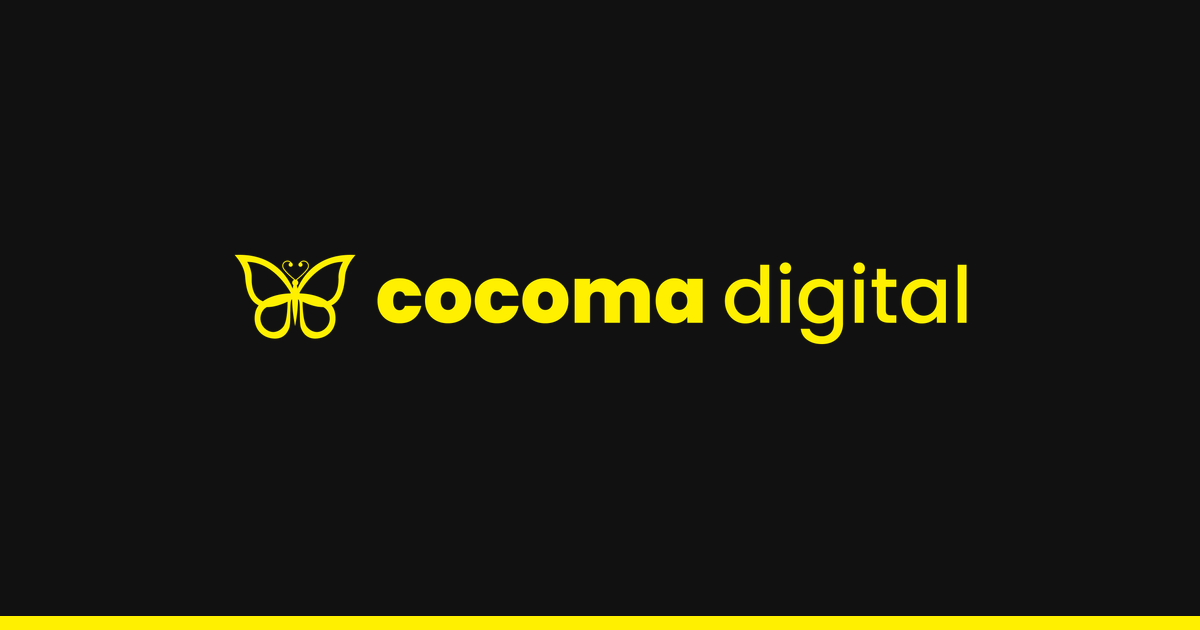
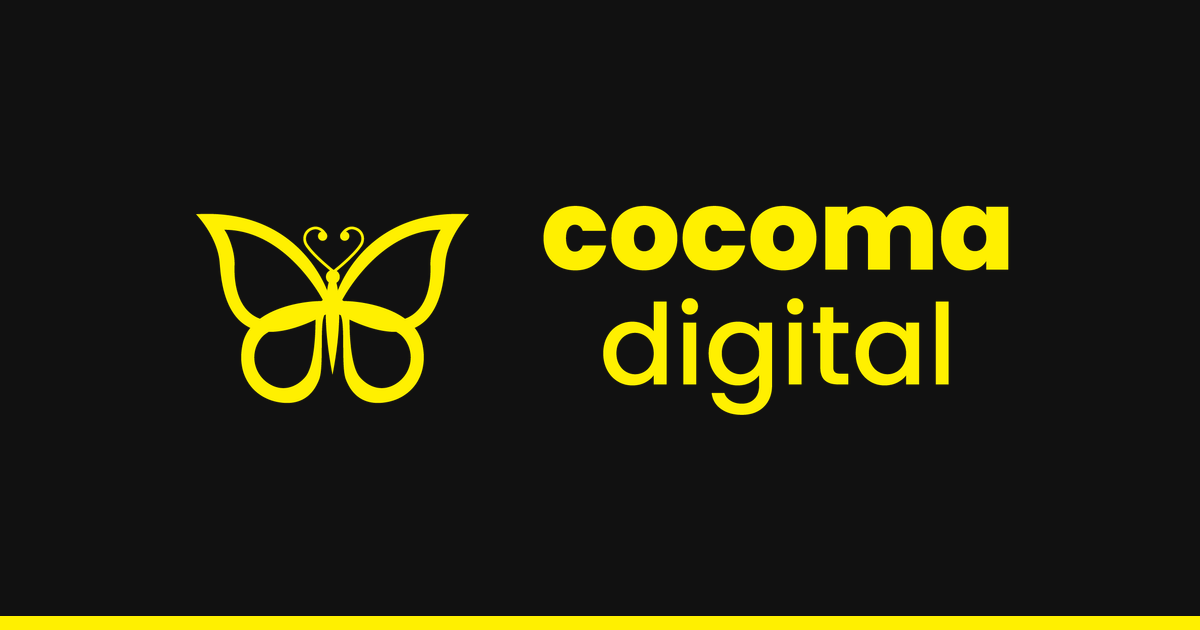
update og image

Changed region(s): [[0.1542, 0.3016, 0.8633, 0.6635]]

diff --git a/app/web/scripts/generate-og-cover.ts b/app/web/scripts/generate-og-cover.ts
@@ -15,9 +15,9 @@ import sharp from "sharp";
  * no retry — a static file under /public is served by the CDN in one hop,
  * where a rendered route risks a cold start and a silently dropped preview.
  *
- * Run with `npm run og:cover -w @cocoma/web` after changing the logo or the
- * brand colours. The output is deterministic, so re-running with no source
- * change produces a byte-identical file.
+ * Run with `npm run og:cover` after changing the logo or the brand colours.
+ * The output is deterministic, so re-running with no source change produces a
+ * byte-identical file.
  */
 
 /* 1200x630 is the 1.91:1 box Facebook, LinkedIn and X all crop to, and the
@@ -31,9 +31,20 @@ const HEIGHT = 630;
 const INK = "#111111";
 const BRAND = "#fff000";
 
-/** Full "butterfly + cocoma digital" lockup — the mark people recognise. */
-const LOGO = "Images/logo/logo-01.png";
-const LOGO_WIDTH = 760;
+/* The lockup is composed from its two parts rather than using the single-line
+   logo-01.png, because the brand's stacked arrangement — butterfly on the
+   left, "cocoma" over "digital" on the right — reads far better in a 1.91:1
+   share card. The one-line version has to shrink to fit the width, which
+   leaves the mark small and the card mostly empty. */
+const MARK = "Images/logo/main-logo.png";
+const WORDMARK = "Images/logo/name-logo.png";
+
+/* Sized by height so both parts share a centre line whatever their source
+   dimensions. The mark is set slightly shorter than the wordmark: matching
+   them exactly makes the butterfly look oversized next to two text lines. */
+const WORDMARK_HEIGHT = 232;
+const MARK_HEIGHT = 214;
+const GAP = 58;
 
 const OUTPUT = "Images/og-cover.png";
 
@@ -41,11 +52,23 @@ async function main() {
   const publicDir = path.join(process.cwd(), "public");
   const outputPath = path.join(publicDir, OUTPUT);
 
-  const logo = await sharp(path.join(publicDir, LOGO))
-    .resize({ width: LOGO_WIDTH, fit: "inside", withoutEnlargement: true })
-    .png()
-    .toBuffer();
-  const { height: logoHeight = 0 } = await sharp(logo).metadata();
+  const resizeToHeight = async (file: string, height: number) => {
+    const buffer = await sharp(path.join(publicDir, file))
+      .resize({ height, fit: "inside" })
+      .png()
+      .toBuffer();
+    const meta = await sharp(buffer).metadata();
+    return { buffer, width: meta.width ?? 0, height: meta.height ?? 0 };
+  };
+
+  const mark = await resizeToHeight(MARK, MARK_HEIGHT);
+  const wordmark = await resizeToHeight(WORDMARK, WORDMARK_HEIGHT);
+
+  /* The two parts are laid out as one block, then the block is centred — so
+     changing either height keeps the lockup centred without re-tuning offsets. */
+  const lockupWidth = mark.width + GAP + wordmark.width;
+  const lockupLeft = Math.round((WIDTH - lockupWidth) / 2);
+  const centreY = Math.round(HEIGHT / 2) - 7;
 
   /* A brand rule along the bottom edge, matching the offset-shadow motif the
      site's cards use. Drawn as SVG so it stays crisp at any scale. */
@@ -64,9 +87,18 @@ async function main() {
     },
   })
     .composite([
-      /* Optically centred: sitting the lockup a little above the true middle
-         reads as centred once the bottom rule is in place. */
-      { input: logo, top: Math.round((HEIGHT - logoHeight) / 2) - 18, left: Math.round((WIDTH - LOGO_WIDTH) / 2) },
+      /* Both parts hang off the same centre line, which sits a few pixels
+         above true middle so the block reads as centred with the rule below. */
+      {
+        input: mark.buffer,
+        top: centreY - Math.round(mark.height / 2),
+        left: lockupLeft,
+      },
+      {
+        input: wordmark.buffer,
+        top: centreY - Math.round(wordmark.height / 2),
+        left: lockupLeft + mark.width + GAP,
+      },
       { input: rule, top: HEIGHT - 14, left: 0 },
     ])
     /* Flattened to RGB: a transparent PNG is composited against an unknown

diff --git a/app/web/src/lib/seo.ts b/app/web/src/lib/seo.ts
@@ -11,6 +11,29 @@ export const SITE_NAME = "Cocoma Digital";
    og:image that 404'd and shared with no picture at all. */
 export const DEFAULT_OG_IMAGE = "/Images/og-cover.png";
 
+/* Stand-in artwork that must never be used as a share image.
+ *
+ * A page is normally shared with its own picture, and that is the right
+ * default. But a placeholder is worse than no picture: coming-soon.png is a
+ * 2 MB "designer to fill" stand-in, and WhatsApp abandons an og:image much
+ * past ~300 KB and falls back to a text-only preview — so a post carrying it
+ * shared with no image at all. Substituting the brand card here gives those
+ * pages the logo preview instead.
+ *
+ * This affects the share tags only. The page still renders the placeholder
+ * exactly as before; nothing about the design changes. Drop an entry from
+ * this list as soon as real artwork replaces it.
+ */
+const PLACEHOLDER_IMAGES = new Set(["/images/home/coming-soon.png"]);
+
+function isPlaceholder(url: string): boolean {
+  /* Compare on the path alone so it matches whether the caller passed a
+     root-relative path or a fully-qualified URL on our own domain. */
+  const withoutQuery = url.split(/[?#]/)[0];
+  const pathOnly = withoutQuery.replace(/^https?:\/\/[^/]+/i, "");
+  return PLACEHOLDER_IMAGES.has(pathOnly.toLowerCase());
+}
+
 /* Scrapers take og:image:type at face value and some skip an image whose
    declared type contradicts the bytes, so it is derived from the URL rather
    than assumed. Anything unrecognised (a CDN URL with no extension, say) is
@@ -298,7 +321,9 @@ export function buildMetadata(input: PageSeo): Metadata {
      imageUrl(doc), which returns "" when the doc has no media. `??` wouldn't
      catch that, so an empty string would resolve to the site root and produce
      a broken share image. `||` handles both null/undefined and "". */
-  const image = absoluteUrl(input.image || DEFAULT_OG_IMAGE);
+  const supplied = input.image && !isPlaceholder(input.image) ? input.image : "";
+  const usingDefault = !supplied;
+  const image = absoluteUrl(supplied || DEFAULT_OG_IMAGE);
   const twitterImage = input.twitterImage ? absoluteUrl(input.twitterImage) : image;
   const canonical = input.canonical
     ? absoluteUrl(input.canonical)
@@ -308,7 +333,11 @@ export function buildMetadata(input: PageSeo): Metadata {
     : `${input.title} | ${SITE_NAME}`;
   const ogTitle = input.ogTitle || title;
   const twitterTitle = input.twitterTitle || ogTitle;
-  const imageAlt = input.imageAlt ?? `${input.title} - ${SITE_NAME}`;
+  /* Alt text describes the picture, not the page, so a page that falls back
+     to the brand card must not keep an alt written for its own artwork. */
+  const imageAlt = usingDefault
+    ? `${SITE_NAME} logo`
+    : (input.imageAlt ?? `${input.title} - ${SITE_NAME}`);
 
   return {
     metadataBase: new URL(SITE_URL),
